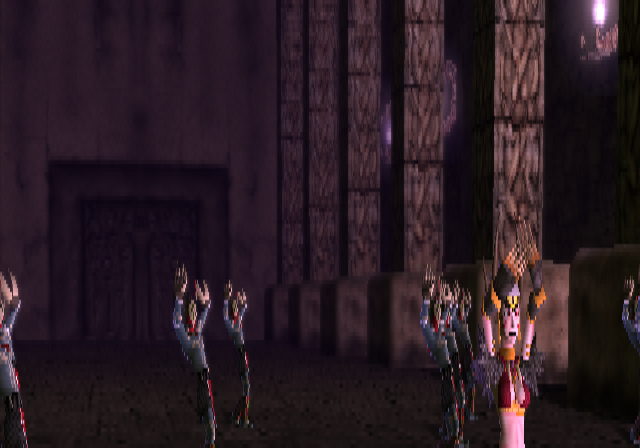
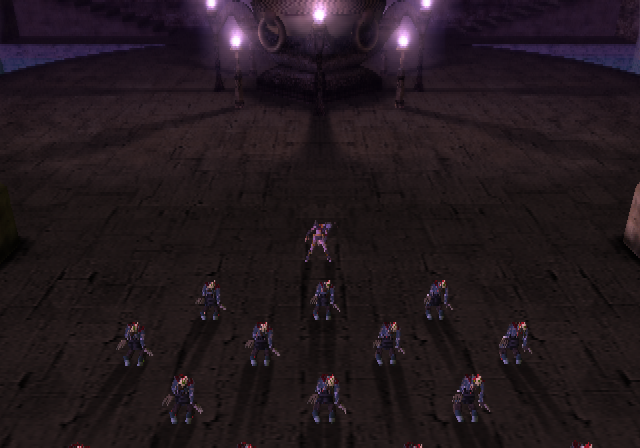
Whole picture: libgraph's sceGsSetDefDBuff runs native (its stub wrote DH h-1, the native present showed 112 of 224 lines)

diff --git a/docs/RECOMP_NOTES.md b/docs/RECOMP_NOTES.md
@@ -105,3 +105,18 @@ from the ELF's own symbols.
 - Boot 14: the opening in the Dark Shrine plays: Colonel Flag and his soldiers, the urn, the Dark Genie, with the
   dialogue text; 56-60 fps on the native frame loop. The dark field of boot 8 was the pause (START every 4 s).
 - Open: while a dialogue line shows, the whole screen behind the text window is a striped beige instead of the scene.
+
+## The picture was cut in half (display height)
+
+- Every capture and the window showed only the top half of DC's picture (the logo against the bottom edge, no menu
+  under it). DC sets its double buffer with libgraph's `sceGsSetDefDBuff` (0x112C08), which the runtime stubbed. That
+  stub wrote DISPLAY as DW = w - 1, DH = h - 1, MAGH 0, DX 636, while libgraph's own `sceGsSetDefDBuff` calls
+  `sceGsSetDefDispEnv` for both display environments (0x112C84, 0x112CA0), whose stub encodes the 2560-clock line
+  (MAGH 3) and, in interlaced frame mode (SMODE2 INT+FFMD, DC's 224-line fields), DH = 2h - 1. The GS native present
+  takes DH as frame lines in that mode and showed DH / 2 = 112 of the 224 lines, doubled.
+- Fix (DC only, `recomp/dc_scus97111.toml`): `sceGsSetDefDBuff` in the `native` list, so the game's libgraph runs and
+  calls the `sceGsSetDefDispEnv` stub. DISPLAY is now DW 2560, MAGH 3, DH 448, and the whole picture shows: the title
+  menu (START, CONTINUE, OPTION), the desk narration's subtitles, the full scenes. The stub itself is left as it is
+  (The Third Age stubs it too; reported on f2f).
+- Still open: the window shows the picture with a black band on the left and its right edge cut (presentation
+  offset); the dialogue backdrop (PSMT8 read of a CT32 target).

diff --git a/README.md b/README.md
@@ -60,8 +60,8 @@ The first boots on the full native path (native GS renderer, native IOP modules,
 
 | | | |
 |---|---|---|
-| ![The intro's castle](docs/screenshots/intro-castle.png) | ![The Dark Genie](docs/screenshots/genie.png) | ![The title logo](docs/screenshots/title-logo.png) |
-| ![The title screen](docs/screenshots/opening-desk.png) | ![In a dungeon](docs/screenshots/dungeon-scene.png) | ![Toan and the Fairy King](docs/screenshots/fairy-king.png) |
+| ![The intro's castle](docs/screenshots/intro-castle.png) | ![The Dark Genie](docs/screenshots/genie.png) | ![The title menu](docs/screenshots/title-logo.png) |
+| ![The desk narration](docs/screenshots/opening-desk.png) | ![In a dungeon](docs/screenshots/dungeon-scene.png) | ![Toan and the Fairy King](docs/screenshots/fairy-king.png) |
 | ![Toan's house](docs/screenshots/toan-house.png) | ![The forest](docs/screenshots/forest-scene.png) | ![New game: the name entry](docs/screenshots/register-name.png) |
 | ![The Dark Shrine](docs/screenshots/shrine-soldiers.png) | ![Colonel Flag](docs/screenshots/colonel-flag.png) | ![The urn](docs/screenshots/shrine-urn.png) |
 | ![Opening dialogue](docs/screenshots/opening-dialogue.png) | ![The Dark Genie rises](docs/screenshots/genie-rises.png) | |
